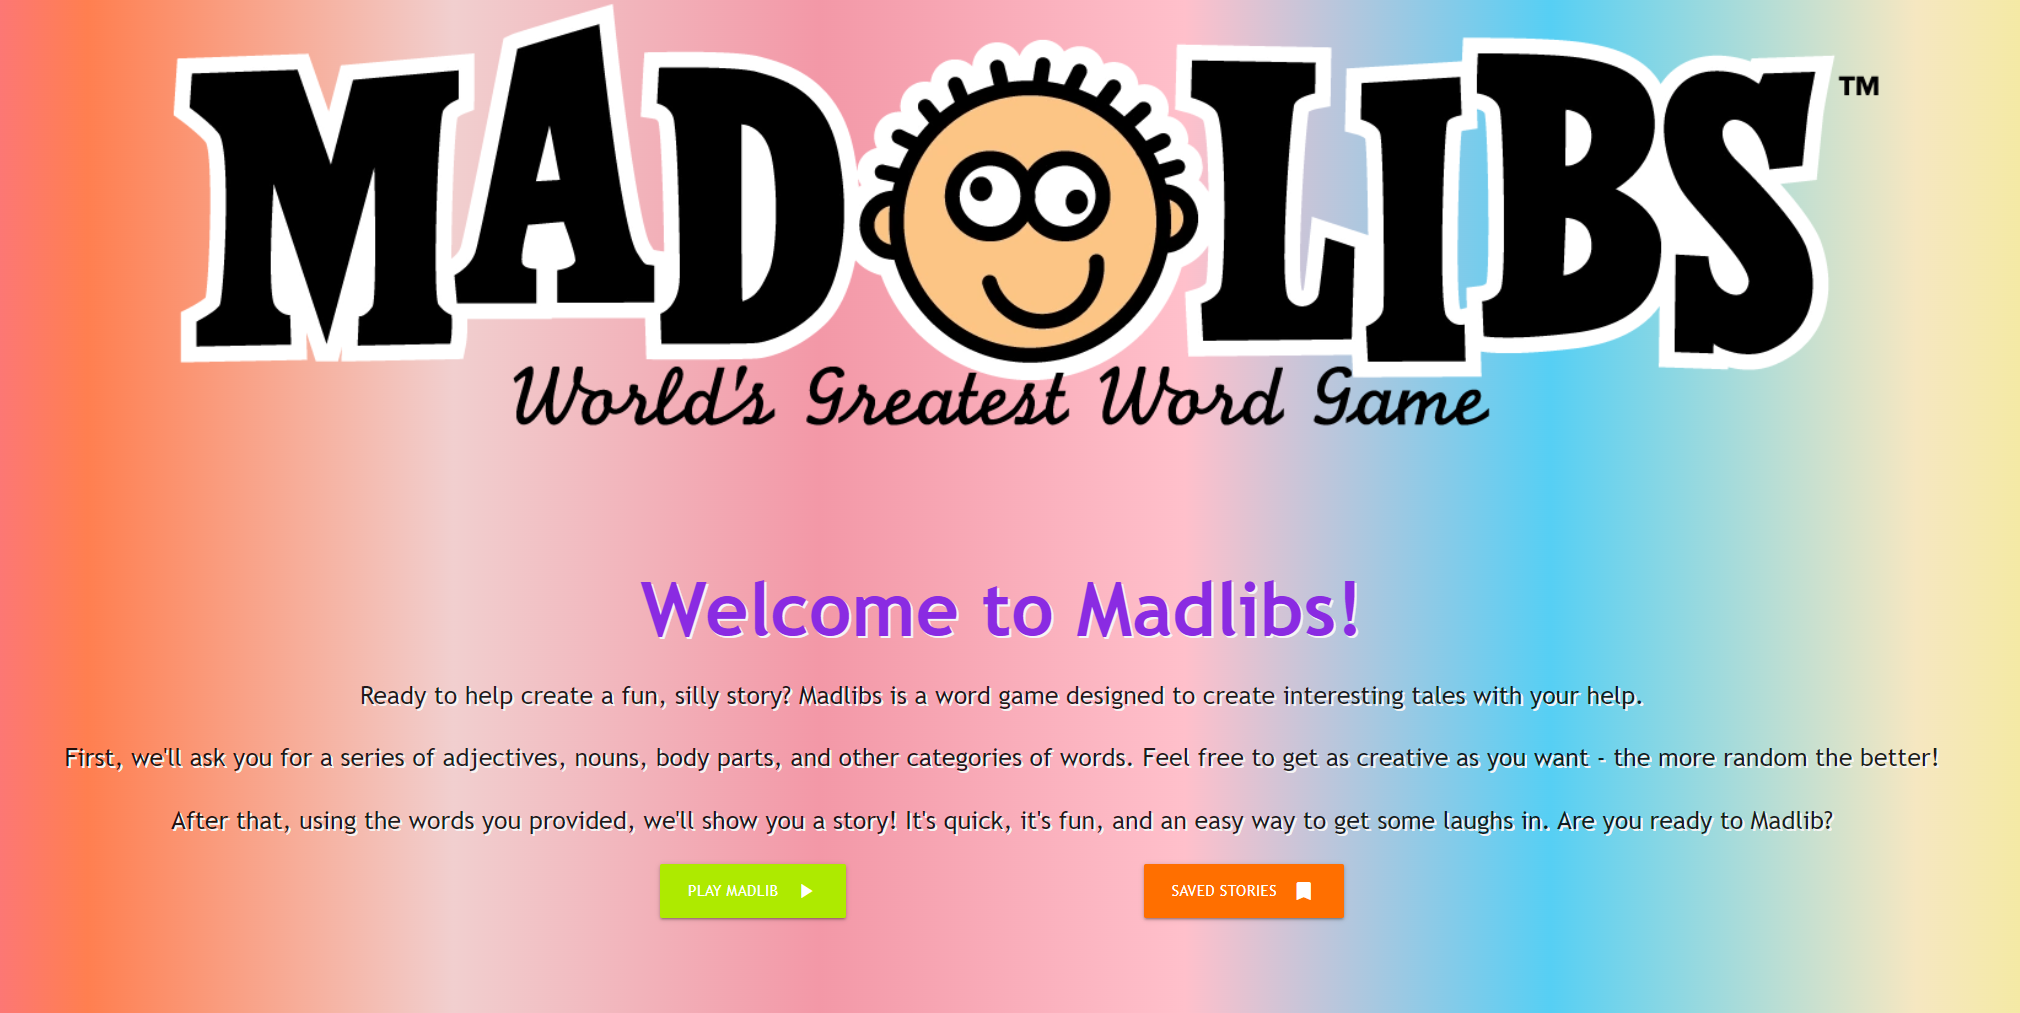
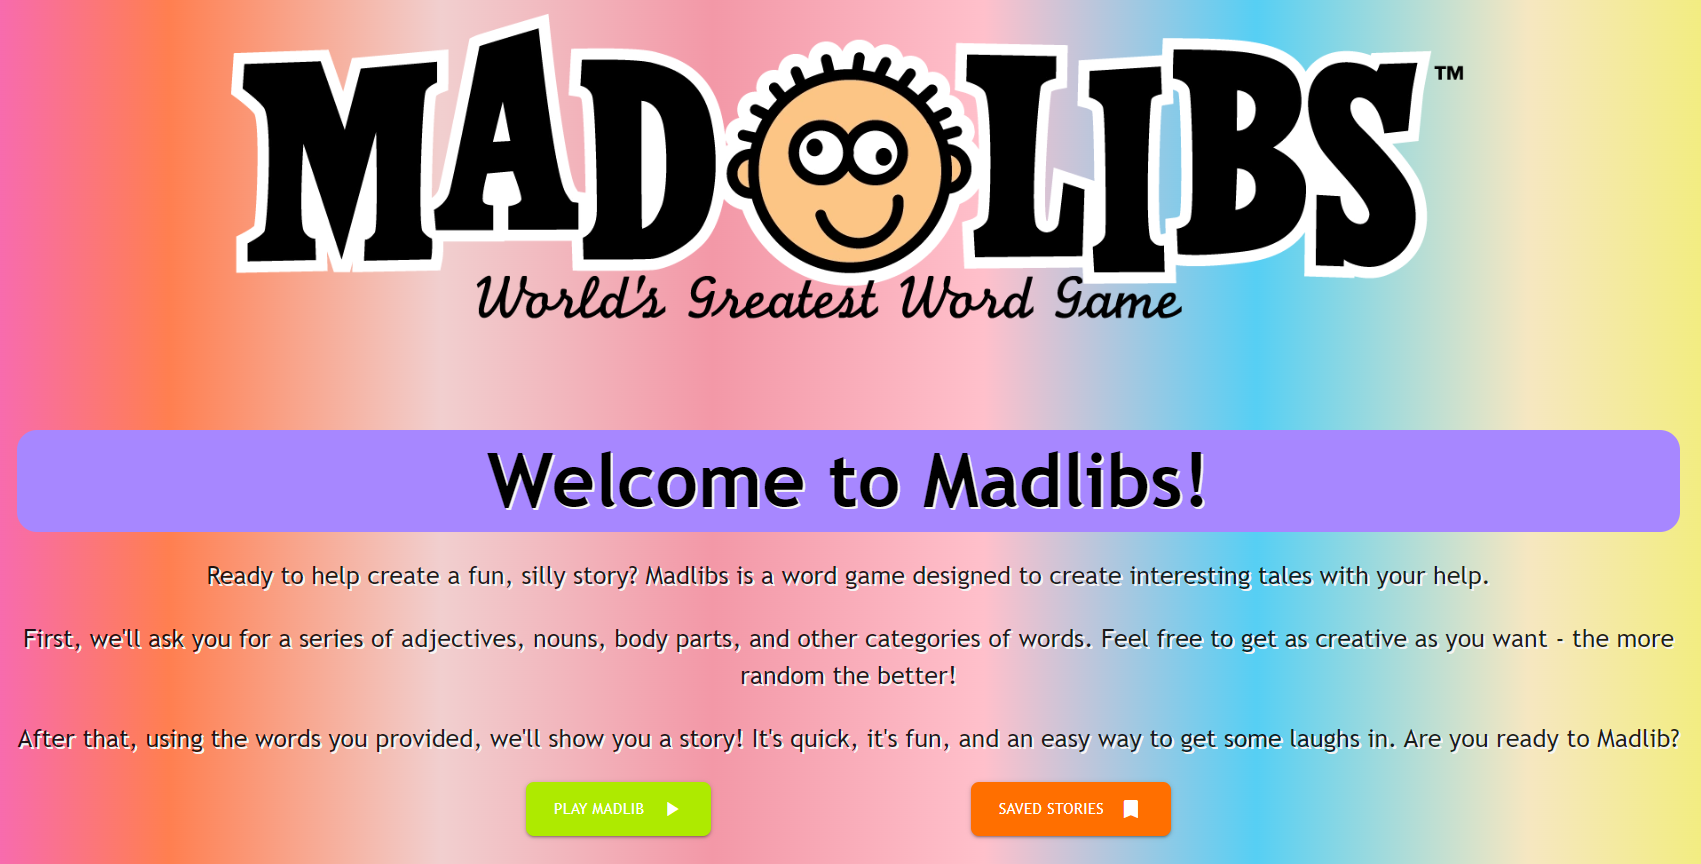
changed styling on text/background; centered archive buttons; updated screenshot preview

diff --git a/assets/css/style.css b/assets/css/style.css
@@ -1,13 +1,15 @@
 body.grad {
-  background-image: linear-gradient(to right,
-      rgb(243, 95, 231),
-      coral,
-      rgb(241, 207, 207),
-      rgb(243, 152, 167),
-      pink,
-      rgb(86, 207, 244),
-      rgb(246, 231, 193),
-      rgb(240, 240, 93));
+  background-image: linear-gradient(
+    to right,
+    rgb(243, 95, 231),
+    coral,
+    rgb(241, 207, 207),
+    rgb(243, 152, 167),
+    pink,
+    rgb(86, 207, 244),
+    rgb(246, 231, 193),
+    rgb(240, 240, 93)
+  );
 }
 
 #logo {
@@ -44,7 +46,7 @@ body.grad {
 
 #title {
   font-size: 5rem;
-  color: blueviolet;
+  color: rgb(0, 0, 0);
 }
 
 #welcomeBox {
@@ -105,7 +107,12 @@ buttonRow {
   display: inline-flex;
   margin: 10px;
   padding: 10px;
+}
 
+.showArchives {
+  display: flex;
+  flex-wrap: wrap;
+  justify-content: center;
 }
 
 h4 {
@@ -113,9 +120,8 @@ h4 {
   font-weight: 500;
   border-radius: 20px;
   padding: 10px;
-  background-color: coral;
+  background-color: rgb(167, 135, 255);
 }
-
 
 /* button radius styling */
 #buttonStart {
@@ -138,25 +144,20 @@ h4 {
   border-radius: 8px;
 }
 
-
-
 /* Media query from materialize class .s and .l */
-@media screen and (max-width <= 600px){
+@media screen and (max-width <= 600px) {
   main {
-width: 50%;
-  } 
+    width: 50%;
+  }
   #wordCloud img {
     width: 50%;
     size-adjust: 40%;
     grid-auto-columns: min-content;
-
   }
-
 }
 
-@media screen and (max-width >992px){
+@media screen and (max-width >992px) {
   main {
     width: 90%;
   }
-  
 }

diff --git a/assets/js/script.js b/assets/js/script.js
@@ -181,7 +181,7 @@ const showStoryButton = document.getElementById("showStory"); //selecting showSt
 const showArchives = document.querySelector(".showArchives"); //empty div where we're displaying the previously played story titles and links
 
 showStoryButton.addEventListener("click", () => {
-  document.getElementById("showArchivesBox").style.display = "block";
+  document.getElementById("showArchivesBox").style.display = "flex";
 
   let numberOfStories = localStorage.length; //getting number of stories already available in local Storage
   for (let i = 0; i < numberOfStories - 1; i++) {

diff --git a/assets/js/script2.js b/assets/js/script2.js
@@ -10,7 +10,7 @@ let title = document.querySelector(".madlibTitle");
 let content = document.querySelector(".madlibText");
 
 //putting the data into the div tags so that the user can actually see the title and content
-title.innerHTML = data.title;
+title.innerHTML = `<h3>${data.title}</h3>`;
 content.innerHTML = data.content;
 
 const buttonHomepage = document.getElementById("buttonHomepage");
